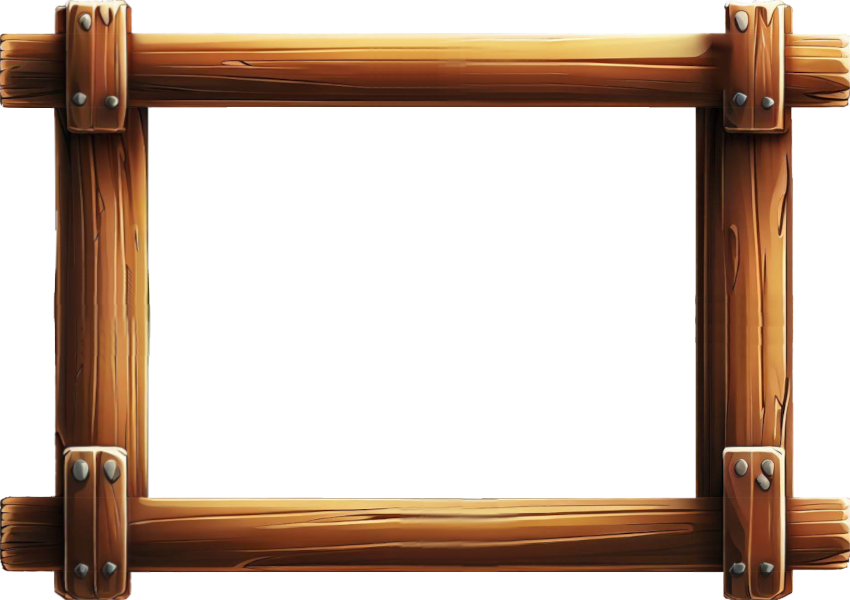
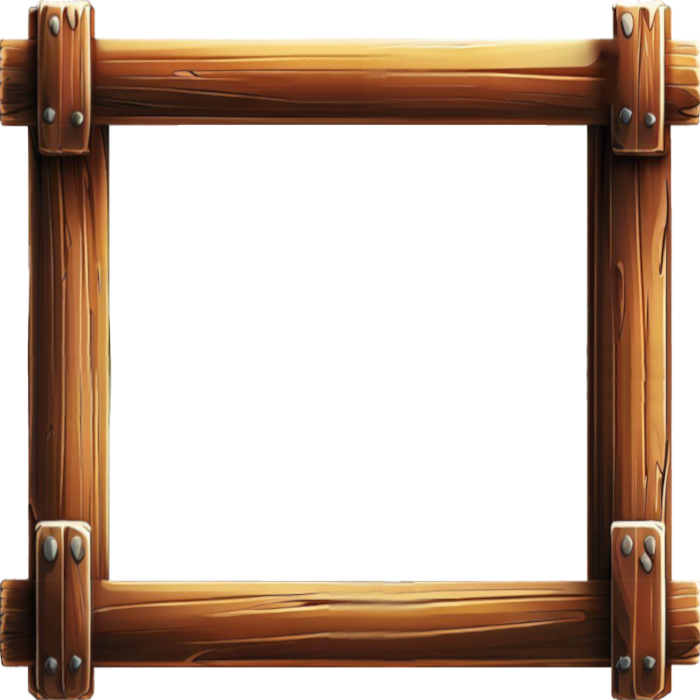
add frame

diff --git a/src/Containers/WorldMap/styles.ts b/src/Containers/WorldMap/styles.ts
@@ -15,16 +15,13 @@ const FRAME_WIDTH = (MAP_IMAGE_WIDTH / MAP_SQUARES_X) * FRAME_SQUARES_X;
 const FRAME_HEIGHT = (MAP_IMAGE_HEIGHT / MAP_SQUARES_Y) * FRAME_SQUARES_Y;
 
 export const Frame = styled('div')`
-  pointer-events: none;
   position: absolute;
   z-index: 5;
-  border: 200px solid transparent;
-  border-image: url('/Arts/MapFrame.png') 30 fill / 10px / 10px stretch;
-  width: ${FRAME_WIDTH - 50}px;
-  height: ${FRAME_HEIGHT - 200}px;
+  border: 105px solid transparent;
+  border-image: url('/Arts/MapFrame.png') 105 stretch;
 `;
 
-export const MapFrame = styled('div')`
+export const Map = styled('div')`
   display: flex;
   flex-direction: row;
   justify-content: stretch;

diff --git a/src/Containers/WorldMap/index.tsx b/src/Containers/WorldMap/index.tsx
@@ -7,9 +7,9 @@ import {
   Frame,
   FRAME_SQUARES_X,
   FRAME_SQUARES_Y,
+  Map,
   MAP_SQUARES_X,
   MAP_SQUARES_Y,
-  MapFrame,
   MapImage,
   MapSquare,
   NavArrow,
@@ -105,9 +105,8 @@ const WorldMap = () => {
   ));
 
   return (
-    <>
-      <Frame />
-      <MapFrame>
+    <Frame>
+      <Map>
         <MapImage src="/Arts/MapImage.png" cordx={cordX} cordy={cordY} />
         {squares}
         {Object.values(DIRECTIONS).map(
@@ -121,8 +120,8 @@ const WorldMap = () => {
               />
             )
         )}
-      </MapFrame>
-    </>
+      </Map>
+    </Frame>
   );
 };
 
